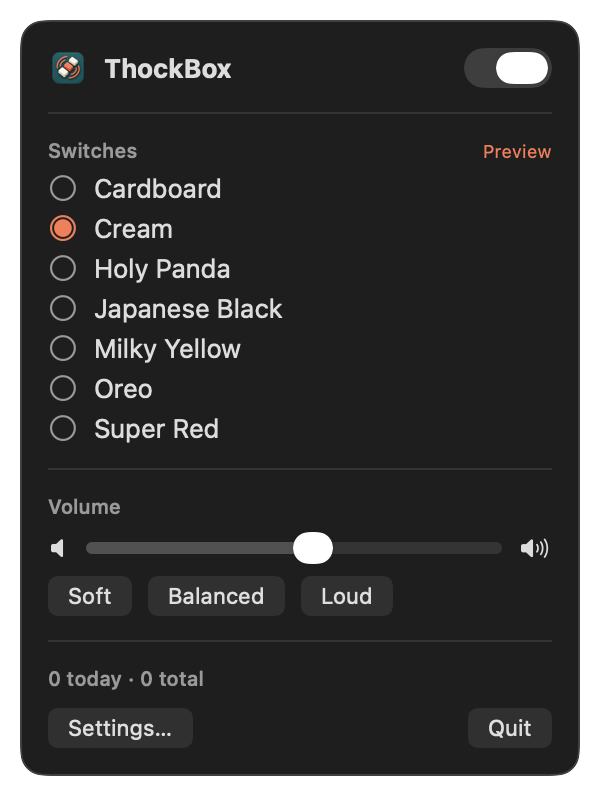
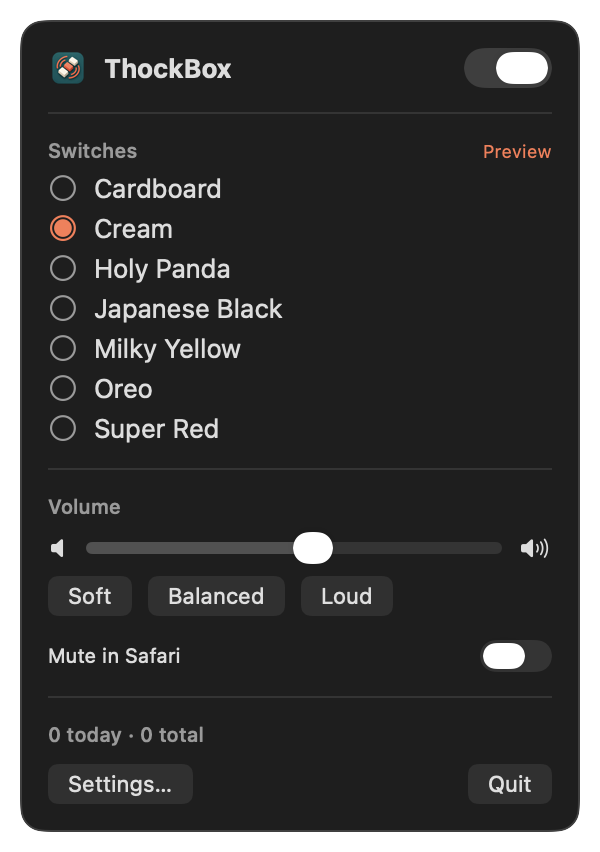
Refresh readme screenshots

diff --git a/README.md b/README.md
@@ -57,7 +57,8 @@ Oreo and Super Red.
 ## Menu bar and settings window
 
 The menu bar panel holds the everyday controls: on and off, switch set,
-volume, and today's keystroke count.
+volume, a switch to mute the app you were just using, and today's keystroke
+count. When sounds are muted automatically, the panel says why.
 
 **Settings…** (⌘,) opens the settings window with everything else, including
 the Tone Pad, key options, automatic mute and output device. While the window
